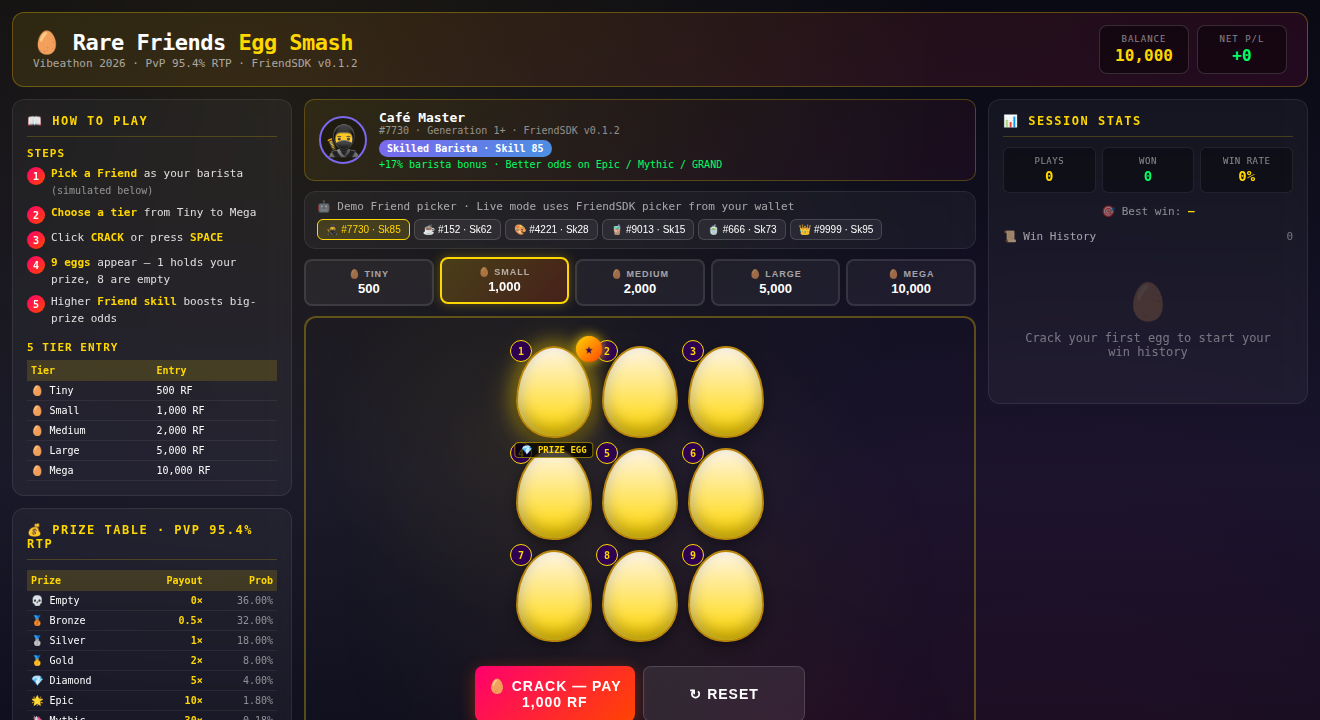
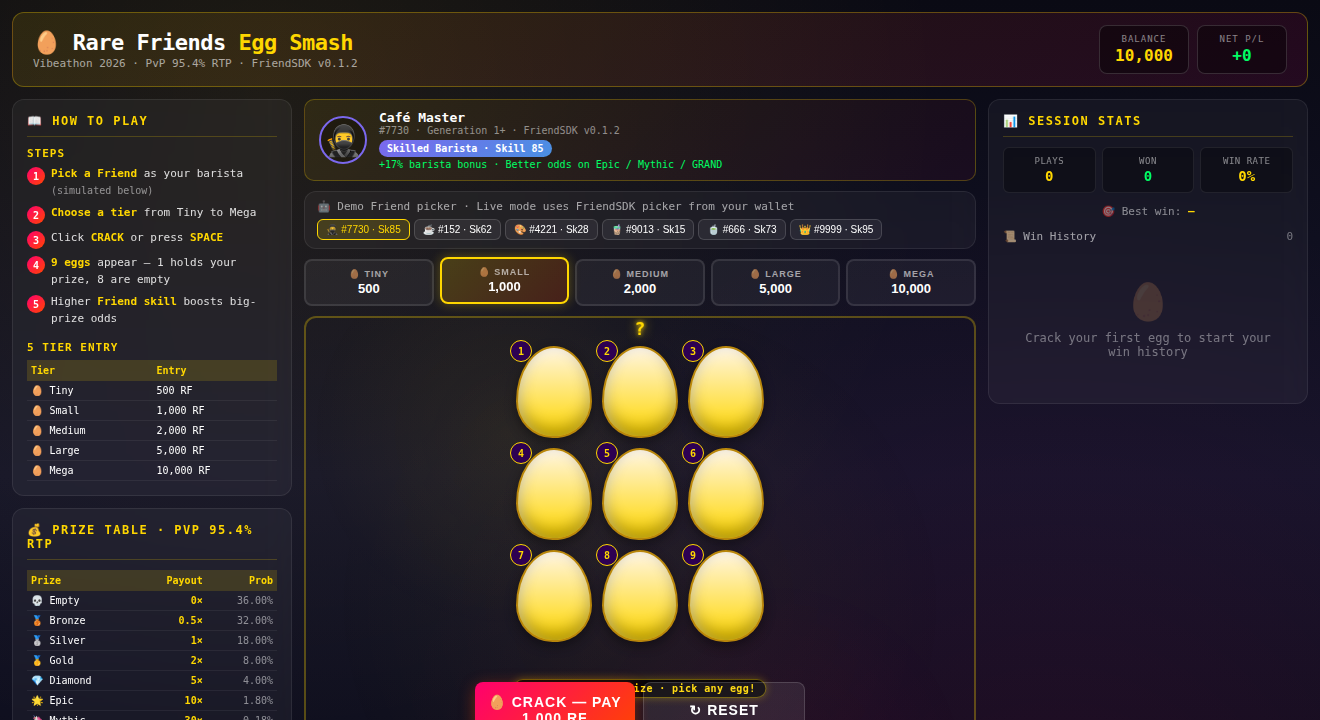
v9.3: remove misleading 'PRIZE EGG on egg #1' hint
Previously the first egg was permanently highlighted with a gold star +
'PRIZE EGG' label, which misled reviewers into thinking egg #1 always
held the prize.

Now the 3x3 grid is visually uniform — all 9 eggs look the same — and
a single floating '?' above the grid plus a '1 of 9 hides a prize ·
pick any egg!' ribbon below the grid make the rules clear without
pinning the prize to any specific egg.

🤖 Generated with MiniMax-M3

Changed region(s): [[0.3417, 0.9167, 0.5902, 1.0], [0.3727, 0.4583, 0.4659, 0.6417], [0.4659, 0.4278, 0.497, 0.4583]]

diff --git a/games/cafe/demo.html b/games/cafe/demo.html
@@ -413,9 +413,10 @@
       display: grid;
       grid-template-columns: repeat(3, 1fr);
       gap: 10px;
-      padding: 12px;
+      padding: 12px 12px 28px 12px;
       max-width: 300px;
       z-index: 1;
+      position: relative;
     }
 
     .egg-grid.shaking .egg {
@@ -448,55 +449,44 @@
       -webkit-tap-highlight-color: transparent;
     }
 
-    /* Highlight first egg (1 holds prize) - data-egg="0" is egg #1 */
-    .egg[data-egg="0"].default,
-    .egg-grid > .egg:nth-child(1).default {
-      box-shadow:
-        inset 0 -8px 16px rgba(0, 0, 0, 0.3),
-        inset 3px 3px 10px rgba(255, 255, 255, 0.5),
-        0 4px 12px rgba(0, 0, 0, 0.4),
-        0 0 20px rgba(255, 215, 0, 0.6),
-        0 0 36px rgba(255, 215, 0, 0.3);
-    }
-
-    /* Star indicator on first egg */
-    .egg[data-egg="0"].default::before,
-    .egg-grid > .egg:nth-child(1).default::before {
-      content: '★';
+    /* "1 of 9 holds the prize" — fair hint, not pinned to any specific egg */
+    .egg-grid::after {
+      content: '1 of 9 hides a prize · pick any egg!';
       position: absolute;
-      top: -12px;
-      right: -12px;
-      width: 26px;
-      height: 26px;
-      background: linear-gradient(135deg, #ffd700, #ff4500);
-      color: #2d0052;
-      border-radius: 50%;
-      display: flex;
-      align-items: center;
-      justify-content: center;
-      font-size: 14px;
-      font-weight: 900;
-      box-shadow: 0 0 12px rgba(255, 215, 0, 0.9);
-      animation: starPulse 1.5s infinite;
-      z-index: 3;
-    }
-
-    /* "PRIZE EGG" hint text under first egg */
-    .egg[data-egg="0"].default::after {
-      content: '💎 PRIZE EGG';
-      position: absolute;
-      bottom: -22px;
+      bottom: -28px;
       left: 50%;
       transform: translateX(-50%);
-      font-size: 9px;
-      font-weight: 900;
+      font-size: 10px;
+      font-weight: 700;
       color: #ffd700;
-      background: rgba(0, 0, 0, 0.7);
-      padding: 2px 6px;
-      border-radius: 4px;
-      border: 1px solid rgba(255, 215, 0, 0.5);
+      background: rgba(0, 0, 0, 0.75);
+      padding: 3px 10px;
+      border-radius: 12px;
+      border: 1px solid rgba(255, 215, 0, 0.4);
       white-space: nowrap;
       z-index: 3;
+      letter-spacing: 0.4px;
+      box-shadow: 0 0 8px rgba(255, 215, 0, 0.3);
+    }
+
+    /* Random "?" hint that floats between eggs so the player knows a prize is somewhere */
+    .egg-grid::before {
+      content: '?';
+      position: absolute;
+      top: -16px;
+      left: 50%;
+      transform: translateX(-50%);
+      font-size: 18px;
+      font-weight: 900;
+      color: #ffd700;
+      text-shadow: 0 0 12px rgba(255, 215, 0, 0.9), 0 0 4px rgba(255, 215, 0, 1);
+      animation: hintBounce 2.4s ease-in-out infinite;
+      z-index: 4;
+    }
+
+    @keyframes hintBounce {
+      0%, 100% { transform: translateX(-50%) translateY(0); }
+      50% { transform: translateX(-50%) translateY(-4px); }
     }
 
     @keyframes starPulse {
